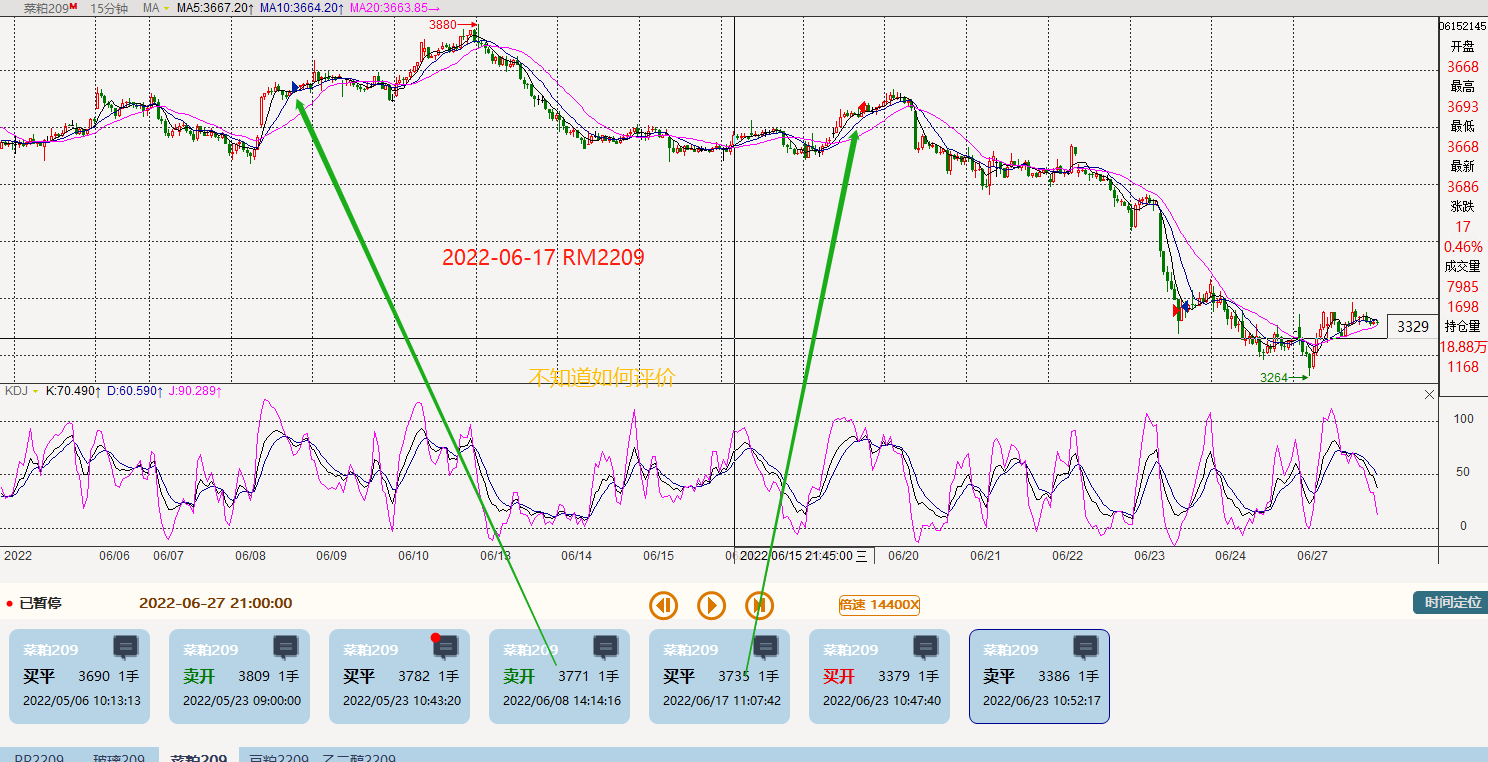
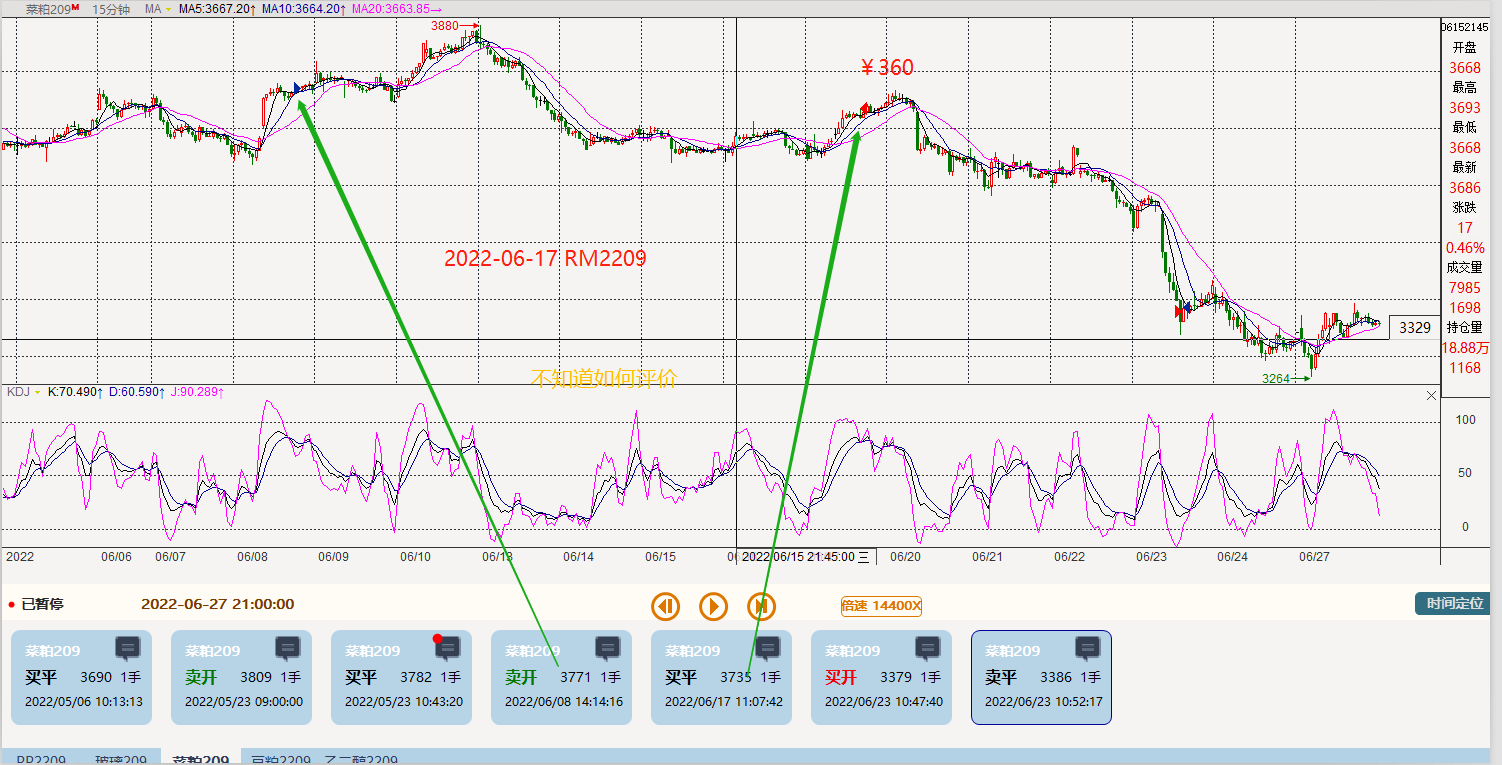
2022六月份交易记录

diff --git a/financial/2022六月份交易记录.html b/financial/2022六月份交易记录.html
@@ -1,0 +1,65 @@
+<!DOCTYPE html>
+<html lang="en">
+<head>
+    <meta charset="UTF-8">
+    <meta name="viewport"
+          content="width=device-width, user-scalable=no, initial-scale=1.0, maximum-scale=1.0, minimum-scale=1.0">
+    <meta http-equiv="X-UA-Compatible" content="ie=edge">
+    <title>2022六月份交易记录</title>
+    <link rel="stylesheet" href="./css/common.css">
+</head>
+<body>
+<div class="wrap">
+    <div class="zone">
+        <div>整个六月份约6k 于2022-06-30 12:50 </div>
+        <img src="./img/202205-202206/20220630-statistics.png" alt="">
+        2022六月份主要涉及到的品种有，过滤条件 >=100 的：
+        <span>螺纹rb2210 :  340 </span>
+        <span>pp2209  :  545 + 315 + 550 + 175 = 1585</span>
+        <span>玻璃fg2209 : 300 + 860 + 360 = 1520</span>
+        <span>纯碱sa2209 : 420 </span>
+        <span>菜粕rm2209 : 360 </span>
+        <span>豆粕m2209 : 490 + 720 + 170 + 430 = 1810</span>
+        <strong>合计：340 + 1585 + 1520 + 420 + 360 + 1810 ≈ 6035</strong>
+    </div>
+    <div>六月主要交易品种为：pp2209、玻璃FG2209、豆粕m2209</div>
+    <div class="zone">
+        <strong>聚丙烯pp2209  </strong> <br/>
+        <img src="./img/202205-202206/20200606-pp2209.png" alt="">
+        <img src="./img/202205-202206/20200609-pp2209.png" alt="">
+        <img src="./img/202205-202206/20220623-0627-pp2209.png" alt="">
+        <img src="./img/202205-202206/20220629-pp2209.png" alt="">
+        <img src="./img/202205-202206/20220630-pp2209.png" alt="">
+    </div>
+    <div class="zone">
+        <strong>玻璃FG2209 至2022-06-30 </strong> <br/>
+        <img src="./img/202205-202206/20220609-fg2209.png" alt="">
+        <img src="./img/202205-202206/20220617-fg2209.png" alt="">
+        <img src="./img/202205-202206/20220623-fg2209.png" alt="">
+        <img src="./img/202205-202206/20220628-fg2209.png" alt="">
+    </div>
+    <div class="zone">
+        <strong>豆粕m2209  </strong> <br/>
+        <img src="./img/202205-202206/20220601-m2209.png" alt="">
+        <img src="./img/202205-202206/20220608-0622-m2209.png" alt="">
+        <img src="./img/202205-202206/20220622-m2209.png" alt="">
+    </div>
+
+    <div>其他少量交易品种有：螺纹rb2210、 纯碱sa2209、 菜粕rm2209 </div>
+    <div class="zone">
+        <strong>螺纹rb2210: </strong> <br/>
+        <img src="./img/202205-202206/20220629-rb2210.png" alt="">
+    </div>
+    <div class="zone">
+        <strong>纯碱sa2209:  </strong> <br/>
+        <img src="./img/202205-202206/20220628-sa2209.png" alt="">
+    </div>
+    <div class="zone">
+        <strong>菜粕rm2209: </strong> <br/>
+        <img src="./img/202205-202206/20220617-RM2209.png" alt="">
+    </div>
+
+</div>
+
+</body>
+</html>

diff --git a/financial/css/common.css b/financial/css/common.css
@@ -119,4 +119,6 @@ a{
     -webkit-box-shadow: 0 2px 5px 0 rgb(0 0 0 / 10%);
     -moz-box-shadow: 0 2px 5px 0 rgba(0,0,0,.1);
     -o-box-shadow: 0 2px 5px 0 rgba(0,0,0,.1);
+    display: flex;
+    flex-direction: column;
 }
